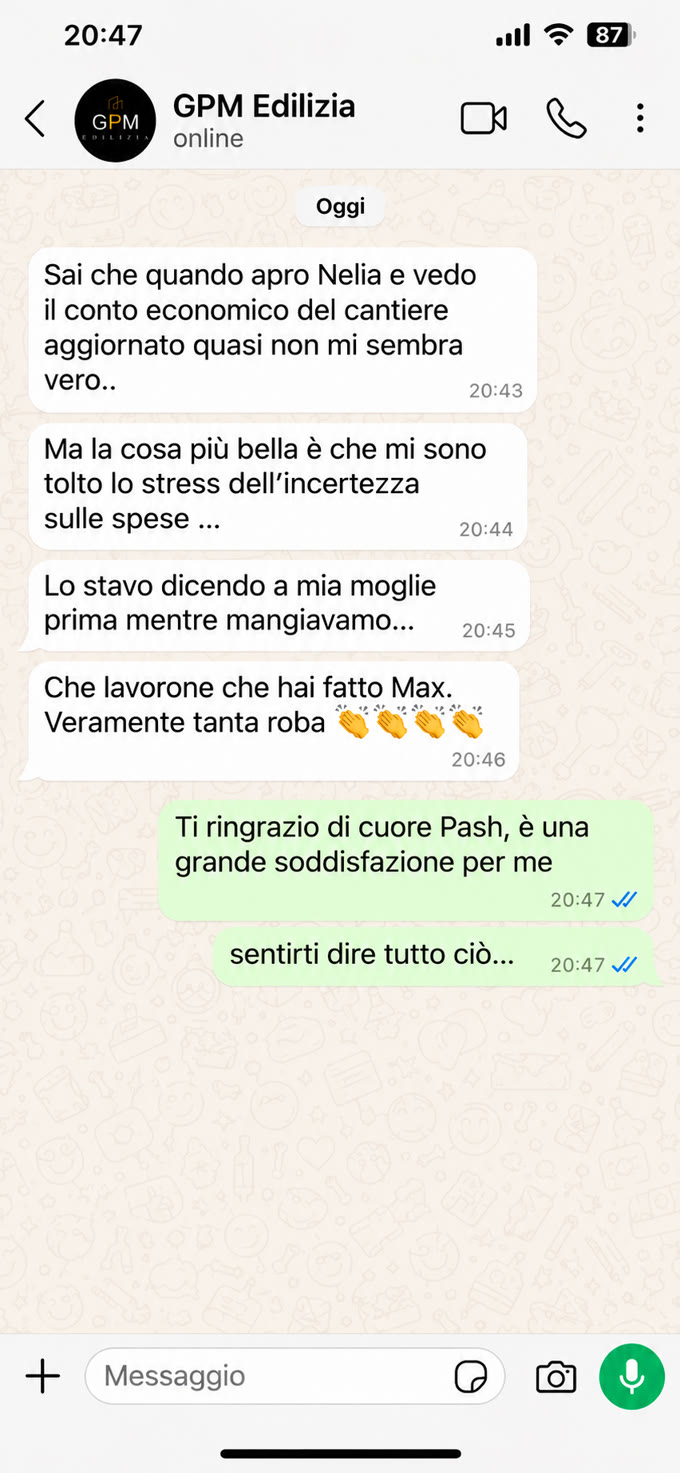
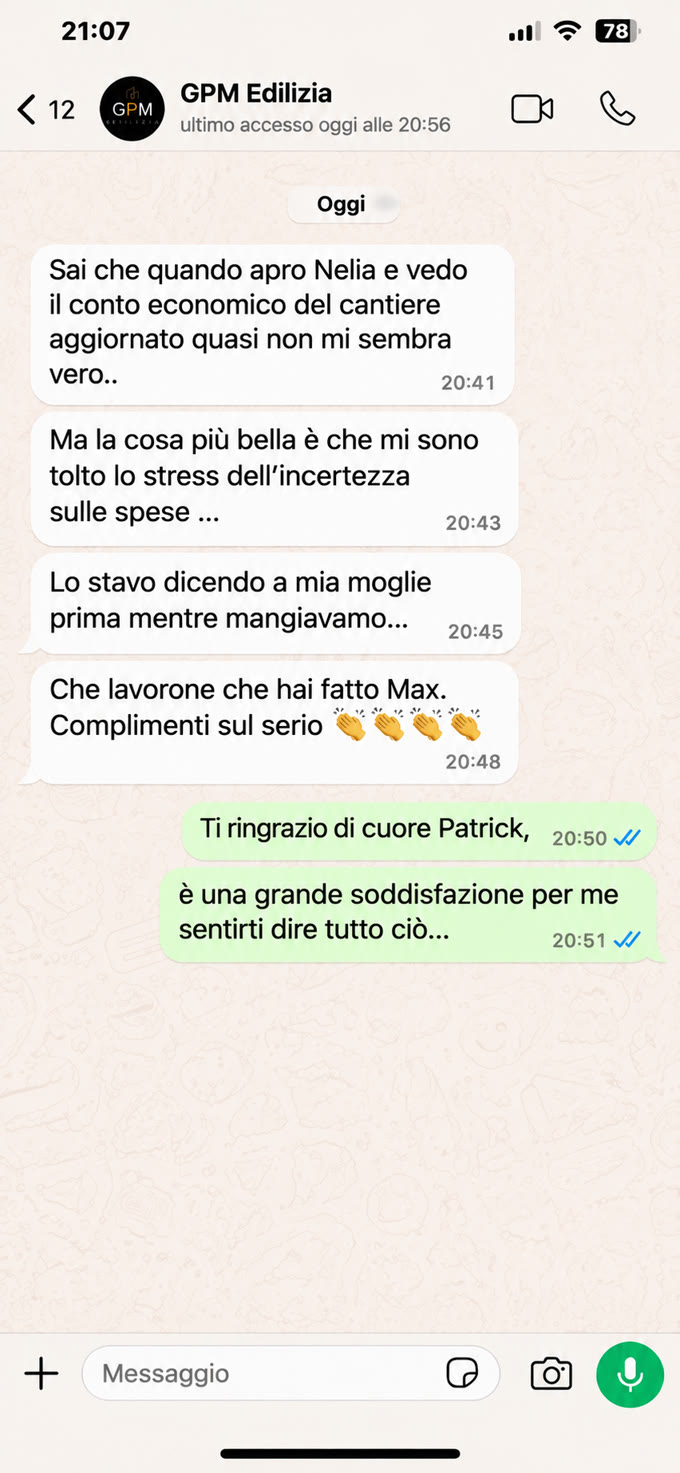
Modifiche dal vocale 8 (gestionali, canone ogni mese, nella sua lingua, conto) + screenshot nuovo di Patrick

diff --git a/index.html b/index.html
@@ -143,8 +143,8 @@
           <p class="mb-3 flex items-center gap-3 text-[18px] font-bold md:text-[20px]"><span class="flex h-7 w-7 shrink-0 items-center justify-center rounded-full bg-[#FFE4E6] text-[15px] text-[#E11D48]">✕</span>I gestionali che ti promettono di farti vedere il margine.</p>
         <div class="text-[17px] leading-[1.75] md:text-[18px] space-y-5 md:space-y-6">
           <p>Funzionano davvero, e qui sta l'inganno: <strong>funzionano solo se qualcuno ci mette i dati dentro.</strong></p>
-          <p>E chi ce li mette? Tu la sera, dopo dieci ore di cantiere. Oppure i tuoi ragazzi con quell'app che non aprono, o la segretaria che a fine mese si ritrova quaranta fatture di tre cantieri diversi da smistare a memoria.</p>
-          <p>Quindi compri un programma per smettere di fare un lavoro, e quel programma te ne chiede un altro. Dopo un mese molli, e resti come prima con in più un canone da pagare.</p>
+          <p>E chi ce li mette? Tu la sera, dopo dieci ore di cantiere. Oppure i tuoi ragazzi con quell'app che non aprono, o la segretaria che a fine mese si ritrova quaranta fatture di tre cantieri diversi da smistare a memoria e chiede aiuto a te, e quindi devi metterci la testa, se no si ferma tutto.</p>
+          <p>Quindi compri un programma per smettere di fare un lavoro, e quel programma te ne chiede un altro. Dopo un mese molli, e resti come prima con in più un canone da pagare ogni mese.</p>
         </div>
         </div>
         </div>
@@ -172,7 +172,7 @@
         </div>
         <div class="mt-8 grid gap-3 md:grid-cols-3">
           <div class="rounded-[14px] border border-white/10 bg-white/[0.04] p-5"><div class="text-[28px] font-bold text-[#A99DF5]">1</div><div class="mt-1 font-bold">Nelia gli scrive su WhatsApp</div><div class="mt-1 text-[14px] text-white/60">Quante ore e in quale cantiere</div></div>
-          <div class="rounded-[14px] border border-white/10 bg-white/[0.04] p-5"><div class="text-[28px] font-bold text-[#A99DF5]">2</div><div class="mt-1 font-bold">Lui risponde come vuole</div><div class="mt-1 text-[14px] text-white/60">Anche tutto attaccato</div></div>
+          <div class="rounded-[14px] border border-white/10 bg-white/[0.04] p-5"><div class="text-[28px] font-bold text-[#A99DF5]">2</div><div class="mt-1 font-bold">Lui risponde come vuole</div><div class="mt-1 text-[14px] text-white/60">Anche tutto attaccato e addirittura nella sua lingua</div></div>
           <div class="rounded-[14px] border border-white/10 bg-white/[0.04] p-5"><div class="text-[28px] font-bold text-[#A99DF5]">3</div><div class="mt-1 font-bold">L'ora diventa costo</div><div class="mt-1 text-[14px] text-white/60">Di quel cantiere, quella sera</div></div>
         </div>
         <div class="mt-8 flex flex-col items-center gap-6 md:flex-row md:justify-center">
@@ -234,7 +234,7 @@
           <p>Non ha scritto "che bel software". Ha scritto che è tranquillo. Con sei cantieri aperti.</p>
         </div>
         <div class="text-[17px] leading-[1.75] md:text-[18px] space-y-5 md:space-y-6 text-white/85 mt-10">
-          <p>E questo è arrivato alle 20:43 da un geometra che gestisce i cantieri di un'impresa.</p>
+          <p>E questo è arrivato alle 20:41 da un geometra che gestisce i cantieri di un'impresa.</p>
         </div>
       <div class="mt-8 grid items-center gap-6 md:grid-cols-[1.2fr_0.8fr]">
         <blockquote class="space-y-3 rounded-[16px] border border-white/10 bg-white/[0.05] p-6 text-[19px] italic leading-[1.55] text-white md:text-[20px]">
@@ -267,7 +267,7 @@
       <p class="mb-3 text-[13px] font-medium uppercase tracking-wider text-[#3B2FA8] md:text-[14px]">Il conto</p>
       <h2 class="text-[24px] leading-[1.2] font-bold md:text-[32px] mb-8 text-[#0D0D12]">Facciamo due conti, quelli veri</h2>
         <div class="text-[17px] leading-[1.75] md:text-[18px] space-y-5 md:space-y-6">
-          <p>Non ti parlo di quanto costa Nelia, che te lo dico in videochiamata senza giochini. Ti parlo di quanto ti costa com'è adesso.</p>
+          <p>Non ti parlo di quanto costa Nelia, che te lo dico in videochiamata senza giochini, in base alle funzionalità che richiedi. Ti parlo di quanto ti costa ora la tua attuale situazione…</p>
           <div class="flex gap-4 rounded-[12px] border border-[#FFE4E6] bg-white p-5"><span class="flex h-7 w-7 shrink-0 items-center justify-center rounded-full bg-[#FFE4E6] text-[18px] font-bold text-[#E11D48]">−</span><p class="m-0">Un SAL che non hai ancora chiesto su lavori che hai già fatto. Non li perdi, quei soldi: li incassi dopo. Ma intanto paghi subappaltatori, materiali e stipendi con la cassa tua, mentre dal committente avresti già potuto prendere il dovuto.</p></div>
           <div class="flex gap-4 rounded-[12px] border border-[#FFE4E6] bg-white p-5"><span class="flex h-7 w-7 shrink-0 items-center justify-center rounded-full bg-[#FFE4E6] text-[18px] font-bold text-[#E11D48]">−</span><p class="m-0">Un operaio le cui ore finiscono sul cantiere sbagliato. Quel cantiere ti sembra che renda, e invece a rendere è l'altro. E tu, sul prossimo preventivo, usi il numero sbagliato per decidere il prezzo.</p></div>
           <div class="flex gap-4 rounded-[12px] border border-[#FFE4E6] bg-white p-5"><span class="flex h-7 w-7 shrink-0 items-center justify-center rounded-full bg-[#FFE4E6] text-[18px] font-bold text-[#E11D48]">−</span><p class="m-0">La congruità messa insieme a mano il giorno prima della scadenza, con il rischio di trovarti il saldo bloccato.</p></div>
